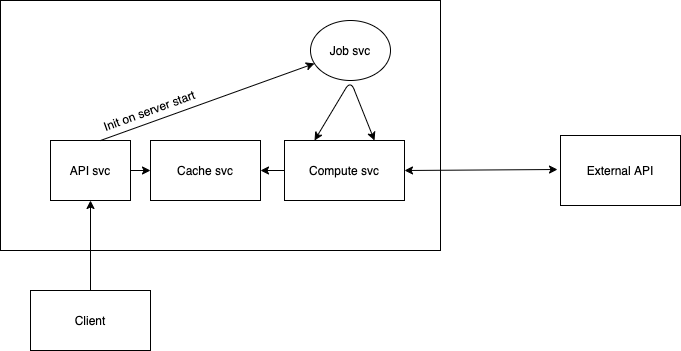
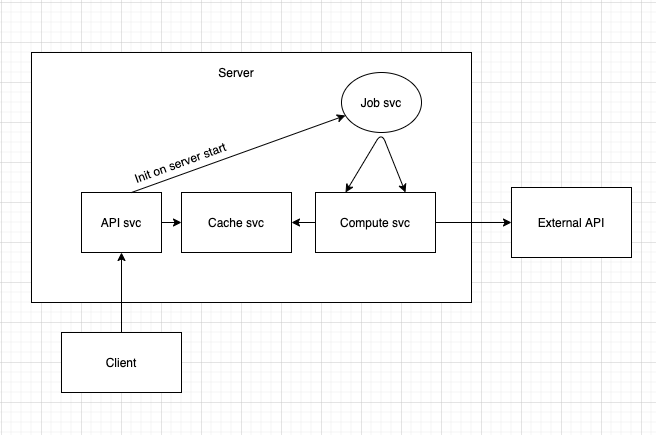
I have renew architecture schema

diff --git a/README.md b/README.md
@@ -8,6 +8,10 @@
 
 **Notes: Written code has to been done using TDD**
 
+#### Architecture schema
+
+![architecture schema](https://github.com/TestardR/intrvw_s/blob/master/architecture.png)
+
 #### Compute service
 
 1. Intensive calculation
@@ -47,4 +51,6 @@ As we use mutlithreading to run our compute service in the background, we opted 
 #### Job service
 
 We implemented the compute sercice so as it can be run as a background task. The background task is run by a thread every minute, while caching the result. Thus the user never hits the compute service itself. The user only access our cache service.
+
+#### Client service
 
